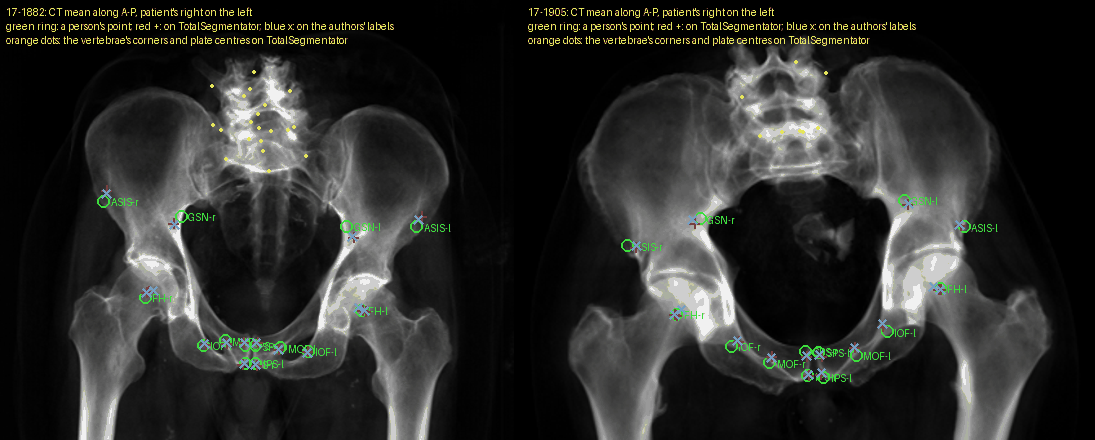
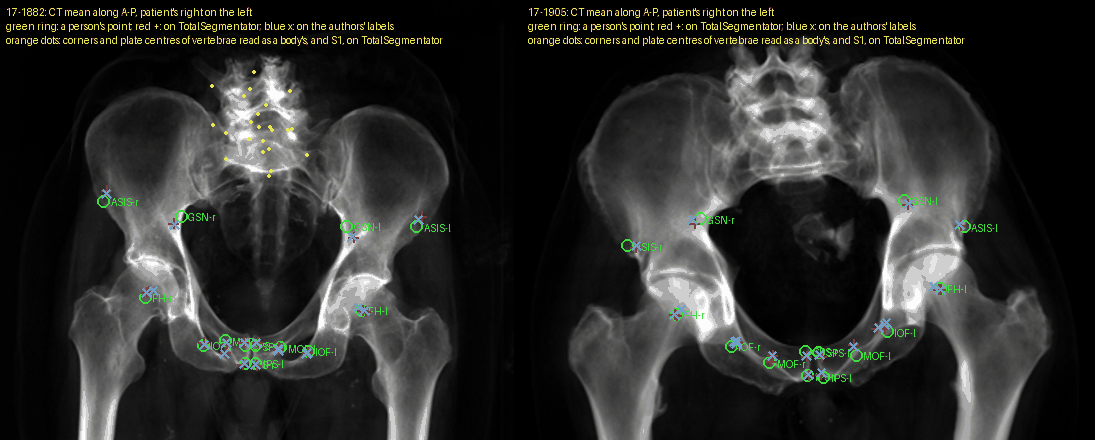
Record the second check: S1 and the promontory pass, the QA loop's names are other points, MOF fails
Job 40940735 ran the tool of 9fd50f56 after that commit was pushed. With S1
joined and the plate read under L5 alone, the S1 plate and the promontory
pass on the three specimens whose L5 is a body; the gate marks five
vertebral readings whose frame the engine itself got wrong; the QA loop's
points of the same names lie 3.5 to 5.6 mm away, so they are not one target;
the wider view search reaches the view along the foramen on every side and
moves MOF over the bar; the source's curvature reading passes for IOF and
fails for MOF as read here. Two docstrings the review named are corrected.

diff --git a/tools/annotator_landmarks.py b/tools/annotator_landmarks.py
@@ -134,8 +134,9 @@ CHORDS = {"upper_width": (("superior_right", "superior_left"), "endplate"),
 # lateral toward the side's own outside so one direction serves both hips: "anatomical", the anterior pelvic plane
 # upright as in a person standing (anatomical_frame); "scanner", the scanner's long axis made square to the hip axis
 # (pelvic_frame); "joint", the symphysis's own long axis, its faces' greatest spread. Each entry says why; the numbers
-# are DeepFluoro's five specimens' (docs/research/annotator-landmarks/constructions.md), and the first was learned from
-# them, so its fair error is the one `check` measures leaving each specimen out.
+# are DeepFluoro's five specimens' (docs/research/annotator-landmarks/constructions.md). The first was learned from
+# them and the others chosen among readings measured on them, so none has a fair error there: `check`'s leave-one-out
+# figure holds out only a direction's mean, not the frame or the outline it is read on, which were chosen on all five.
 DIRECTIONS = {
     # learned: the person's points lie from the foramen's centre toward the ischium, back and down (both labelings gave
     # (0.24, -0.83, -0.51) and (0.23, -0.83, -0.51), each person's point within a median 9 degrees of it)
@@ -703,10 +704,11 @@ def symphysis(right, left, frames, directions=None):
     extreme along the end's entry in DIRECTIONS.
 
     Three readings of the ends were measured on DeepFluoro (constructions.md): along the joint's long axis both (the
-    run the bars were set for), whose superior end lay a median 4 mm from the person's and inferior end 14 mm, the
-    faces staying within 4 mm of each other 7 to 17 mm further back than the person's inferior point; along the
-    scanner's long axis, 14 and 3 mm; along the anatomical frame's, 12 and 8 mm. The table takes the superior end from
-    the first and the inferior from the second."""
+    run the bars were set for), whose superior end lay a median 4 mm from the person's and inferior end 14 mm; along
+    the scanner's long axis, 14 and 3 mm; along the anatomical frame's, 12 and 8 mm. Along the line from the person's
+    SPS to the person's IPS, the right pubis's face runs on past the person's IPS by 14.3 and 4.4 mm at its 95th
+    percentile and 21.2 and 9.9 mm at its furthest (debug job 40940285, 17-1882 and 18-2799). The table takes the
+    superior end from the first reading and the inferior from the second, both chosen on the same points."""
     from scipy.spatial import cKDTree
     G = engine()["G"]
     frame = frames["anatomical"]

diff --git a/docs/research/annotator-landmarks/constructions.md b/docs/research/annotator-landmarks/constructions.md
@@ -1,6 +1,6 @@
 # The annotators' landmarks as the CT engine's constructions, checked against the points a person placed
 
-Source: the owner's local Claude Code session of the night of 1 November 2026, on his words that night: "the bare minimum my landmark net should also be able to place landmarks annotators have found useful such as the ones deepfluoro placed, the corners a ton of xray groups have placed, etc; it should somehow find where those points correspond to the 3d ct scans and propagate them through and use them if possible for bayesian measurements, and even better if they correlate with known anatomical papers like panjabi". Revised the same night after two adversarial reviews of pull request #554 (the section "The review, and the second check"). Confidential with the rest of this repository.
+Source: the owner's local Claude Code session of the night of 1 November 2026, on his words that night: "the bare minimum my landmark net should also be able to place landmarks annotators have found useful such as the ones deepfluoro placed, the corners a ton of xray groups have placed, etc; it should somehow find where those points correspond to the 3d ct scans and propagate them through and use them if possible for bayesian measurements, and even better if they correlate with known anatomical papers like panjabi". Revised the same night after two adversarial reviews of pull request #554 (the sections "The review, and the second check" and "What the second check found"). Confidential with the rest of this repository.
 
 ## What was built
 
@@ -133,8 +133,35 @@ The bars of the second check, written and pushed before it runs; this time no jo
 - A vertebral construction and the QA loop's point of its name are one target only where the median distance between them on the vertebrae read as a body's is at most 2 mm on both labelings; otherwise they are two points, and the QA loop's name is only the nearest.
 - Every other figure is reported against the first runs' (job 40940426 for the tool as it stood), the obturator's readings by direction among them, so the wider search's effect on them is measured.
 
+## What the second check found
+
+One grid job, 40940735 (04:46:24 to 04:47:32 UTC on 2 November), on the tool of commit 9fd50f56 (sha256 e8653121... on the grid, the commit's), which GitHub records as pushed at 04:43:23 UTC; nothing ran on the grid for this check before that push. It read the first runs' persons.json (the same 70 points) and never 18-1109. Its check.json and table.md are under qadiag/annotator-constructions/second/check on the grid; the picture beside this note is now its own.
+
+The S1 plate and the promontory pass where they could be read. With vertebrae_S1 joined to the sacrum and the plate read under L5 alone, TotalSegmentator's L5 was read as a body on 17-1882, 18-2799 and 18-2800, and on each the S1 plate's centre lies 4.4, 3.9 and 3.6 mm below L5's lower plate centre and 4.2, 2.1 and 1.6 mm beside it (none flagged), on plates 42.2, 31.9 and 35.4 mm deep, as the reviewer's probe found. The promontory (s1_anterior) stands 17.4, 12.3 and 17.9 mm in front of L5's lower plate centre along that plate's anterior, every one past the 10 mm bar (the QA loop's sacral anchor stood a median 4 mm in front); it lies 1.0 mm in front of, and 2.6 and 1.6 mm behind, L5's anterior-inferior corner, 5.8, 3.6 and 4.9 mm from it, where a narrow lumbosacral disc in an elderly specimen puts it. No plate was read on 17-1905 (its L5 is no body's, below), on 18-0725 (the engine read no L5: "no slab with a wall round the canal"), or on any authors' labeling, where no lumbar piece is a body's L5 (three are one joined piece, and 17-1905's and 18-0725's single pieces, named L5 and L4, are no body's). So the construction now works where its inputs are sound, on three specimens of five on one labeling.
+
+The plausibility gate marked five vertebral readings as no body's, and in four of them the engine's own chords are broken too, so the fault there is the vertebra's frame, not the corners. Of TotalSegmentator's 12 vertebrae read, 9 are a body's (17-1882 L4 and L5, 18-2799 L2 to L5, 18-2800 L3 to L5); 17-1905 L5 (lower depth 8.4 mm, 7.8 spreads under Panjabi's; centre height 44.8, 6.7 over), 18-0725 L4 (upper width 19.8, upper depth 7.0, lower width 27.6, centre height 45.5) and 18-2800 L2 (upper width 57.1, 5.6 spreads over Panjabi's 42.6) are not. On the authors' labels both named pieces (17-1905 L5, 18-0725 L4) are no body's. The engine's own Panjabi chords for the same vertebrae: 17-1905 L5's lower depth 20.1 and 18.8 mm and posterior height 38.0 and 39.0 on the two labelings, 18-0725 L4's posterior height 15.2 and 11.0 and, on the authors' labels, an upper depth of 73.6. The frame is set from a column line with no whole neighbour and an axis turned onto neighbours the labels hold badly (17-1905's L4 is 2,719 voxels in 7 pieces; 18-0725's L5 was not read), and it is wrong before any corner is placed. 18-2800 L2's width the engine reads as 57.7 too, so that one may be the specimen's (an osteophyte) and not a failure; the gate cannot tell the two apart and marks it anyway. 18-2800 L5, whose lower width the first runs read as 15.8 mm, now reads 60.0: joining S1 gave its axis the right neighbour below. Among the vertebrae that pass, the posterior height reads high on every one, 27.8 to 37.2 mm by the tool's corners and 23.2 to 31.7 by the engine's own h_post, against Panjabi's 22.9 to 24.3, and the widths of 18-2800 and of 17-1882's L4 run 1.5 to 4.0 spreads over. That is within the gate, and a measure for the gold tier, where docs/research/morphometry-against-panjabi.md holds the engine's own figures against Panjabi.
+
+The QA loop's names do not stand for the same points. On the 9 vertebrae read as a body's on TotalSegmentator (none on the authors' labels), this tool's corners lie a median 3.5 to 5.6 mm from the QA loop oracle's points of the same names on the same body in the same frame (maxima 4.2 to 12.0): the lateral ends 3.5 (upper) and 5.5 to 5.6 mm (lower), the front ends 5.5 (upper) and 3.8 mm (lower), the back ends 3.6 and 4.4 mm. Every one is over the 2 mm bar, so the two are two sets of points; the QA loop's name is only the nearest, as each point's qaloop_near now says, and a target list that joins them must carry both or choose one.
+
+The foramen's view now lies inside the search on every side: no view, over 10 sides of 5 specimens on 2 labelings, sits on its edge (yaw 40 to 70 degrees, pitch -30 to -50). The wider search moved the readings by direction: IOF 2.2 / 2.6 mm (TotalSegmentator / authors', pooled; leave-one-out 1.8 / 2.6) against 2.0 / 2.3 before; MOF 6.0 / 4.9 (leave-one-out 6.3 / 5.6) against 4.6 / 4.0. So MOF by its name's direction now fails the 5 mm bar on TotalSegmentator's masks, and the first run's 3.2 for MOF owed something to where its search stopped.
+
+The source's definition by curvature passes for IOF and fails for MOF, as read here. Medians over ten points, mm:
+
+| point | construction | TotalSegmentator (median / max / n) | authors' labels | between the two | at most 5 mm? |
+|---|---|---|---|---|---|
+| IOF | obturator_inferior_curvature (the lowest corner) | 2.3 / 37.4 / 10 | 3.5 / 35.4 / 10 | 1.3 / 33.3 / 10 | yes, with gross misses |
+| MOF | obturator_medial_curvature (the most medial corner) | 20.7 / 35.6 / 10 | 28.7 / 43.5 / 10 | 1.9 / 56.8 / 10 | no |
+| IOF | obturator_inferior (the learned direction, for comparison) | 2.2 / 4.7 / 10 | 2.6 / 5.0 / 10 | 1.1 / 2.3 / 10 | yes, in sample |
+| MOF | obturator_medial (straight medial, for comparison) | 6.0 / 9.7 / 10 | 4.9 / 8.0 / 10 | 1.4 / 3.9 / 10 | no on TotalSegmentator |
+
+The lowest corner is the person's IOF (within 5.1 mm) on 8 of 10 sides on TotalSegmentator's masks and within 5.6 mm on 9 of 10 on the authors'; on 17-1882's right side on both labelings (37.4 and 35.4 mm) and 17-1905's right on TotalSegmentator (32.7) it is another corner. The most medial corner is the person's MOF (within 5.9 mm) on 4 of 10 sides on TotalSegmentator and 2 of 10 on the authors'; elsewhere it lies 18 to 43 mm away, at another corner. The source says MOF is "the point of maximal curvature on the medial portion" of the foramen; this check read that as the most medial of the corners, and the person's MOF lies at the corner 44 degrees from straight medial, toward the front and below (above), which that reading often passes over. Another reading, the corner of greatest curvature within the foramen's medial part, is the next to try, on its own bar stated before it runs; it was not tried here, so as not to choose a reading on the same ten points again. The corners hardly depend on the mask (a median 1.3 and 1.9 mm between the labelings), but the choice among them does: where the two labelings choose different corners they lie 33 to 57 mm apart.
+
+Everything else is as the first runs left it: the femoral head, ASIS, notch and both symphysis points read the same to the tenth of a millimetre as job 40940426 (the tables above), since nothing in them changed. The picture's red and blue crosses now include both readings of IOF and MOF, so a cross far from a ring is the curvature reading's wrong corner.
+
 ## What follows
 
 - The pelvic points carry DeepFluoro's own names, so a landmark network trained on their projections can be scored against the release's shipped 2-D landmarks on every frame.
-- The fair errors to quote are the first run's, with its one seen specimen; the SPS, IPS and IOF readings the table takes should be checked on a set they were not chosen on, such as a second annotator's points or another release with the same names, before they are called settled.
+- The fair errors to quote are the first run's, with its one seen specimen, and the second check's for what it set before it ran: the S1 plate and the promontory (three specimens), the gate's verdicts, the offsets from the QA loop's points, and the curvature readings (IOF passes with gross misses on 2 or 1 sides of 10; MOF fails). The SPS, IPS and IOF readings by direction should be checked on a set they were not chosen on, such as a second annotator's points or another release with the same names, before they are called settled.
+- MOF has no reading that passes on TotalSegmentator's masks once the view search reaches the view along the foramen; the next reading to state and run is the corner of greatest curvature within the foramen's medial part.
+- The vertebral corners on DeepFluoro rest on 9 vertebrae of 3 specimens on one labeling; where the lumbar spine is cut short (17-1905, 18-0725) the engine's frame fails before any corner is placed. The gold tier's whole spines are where the corners and the promontory should be measured against Panjabi next.
 - No change was made to the pinned engine; the readings of the plates' lateral ends repeat bordercall's plates.py (69cae89), and the pin should move to it when the vendored copy is next brought up.
